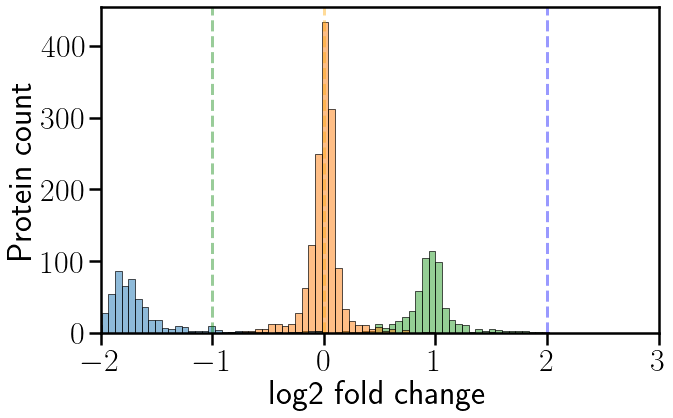
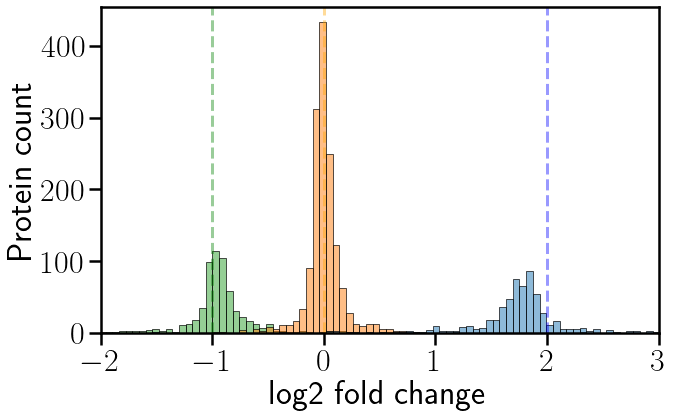
fixed todo docs

Changed region(s): [[0.1248, 0.0622, 0.9673, 0.8086]]

diff --git a/doc/benchmark/benchmark.tex b/doc/benchmark/benchmark.tex
@@ -98,7 +98,7 @@ Just as in LFQBench, we used two separate strategies to generate peptide abundan
         \includegraphics[width=1.1\linewidth]{../../result/report_plots/DIA_benchmark_truncated.png} 
     \end{tabular}
 
-        \caption{{\bf The spectrum-library matching and pseudo spectrum workflow pipelines.}}
+        \caption{{\bf The spectrum-library matching (SL) and pseudo spectrum workflow pipelines (PS).} For the various pipelines DIA-Umpire(SE), MSFragger and EasyPQP is run from Fragpipe (\protect\url{https://fragpipe.nesvilab.org/}).}
       \label{fig:flowchart}
 \end{figure}
 
@@ -185,22 +185,24 @@ To get an overview of the results of the methods we first made histograms of the
 \begin{figure}[hbt]
     \centering
     %\includegraphics[width=16cm]{../../result/2021-08-13_docs_plots/intensity_plot.png}
-    \begin{tabular}{lclc} 
-        A & \includegraphics[width=0.4\linewidth]{../../result/report_plots/osw_triqler_intensity.png} & 
-        E & \includegraphics[width=0.4\linewidth]{../../result/report_plots/diann_triqler_intensity.png} \\ 
-        B & \includegraphics[width=0.4\linewidth]{../../result/report_plots/osw_msqrobsum_intensity.png} & 
-        F & \includegraphics[width=0.4\linewidth]{../../result/report_plots/diann_msqrobsum_intensity.png} \\ 
-        C & \includegraphics[width=0.4\linewidth]{../../result/report_plots/osw_msstats_intensity.png} & 
-        G & \includegraphics[width=0.4\linewidth]{../../result/report_plots/diann_msstats_intensity.png} \\ 
-        D & \includegraphics[width=0.4\linewidth]{../../result/report_plots/osw_top3_intensity.png} &
-        H & \includegraphics[width=0.4\linewidth]{../../result/report_plots/diann_top3_intensity.png} 
+    \begin{tabular}{lclc}
+	    A & \includegraphics[width=0.4\linewidth]{../../result/report_plots/osw_triqler_intensity.png} & 
+	    B & \includegraphics[width=0.4\linewidth]{../../result/report_plots/osw_top3_intensity.png} \\ 
+	    C & \includegraphics[width=0.4\linewidth]{../../result/report_plots/osw_msstats_intensity.png} & 
+	    D & \includegraphics[width=0.4\linewidth]{../../result/report_plots/osw_msqrobsum_intensity.png} \\ 
+        %A & \includegraphics[width=0.4\linewidth]{../../result/report_plots/osw_triqler_intensity.png} & 
+        %E & \includegraphics[width=0.4\linewidth]{../../result/report_plots/diann_triqler_intensity.png} \\ 
+        %B & \includegraphics[width=0.4\linewidth]{../../result/report_plots/osw_msqrobsum_intensity.png} & 
+        %F & \includegraphics[width=0.4\linewidth]{../../result/report_plots/diann_msqrobsum_intensity.png} \\ 
+        %C & \includegraphics[width=0.4\linewidth]{../../result/report_plots/osw_msstats_intensity.png} & 
+        %G & \includegraphics[width=0.4\linewidth]{../../result/report_plots/diann_msstats_intensity.png} \\ 
+        %D & \includegraphics[width=0.4\linewidth]{../../result/report_plots/osw_top3_intensity.png} &
+        %H & \includegraphics[width=0.4\linewidth]{../../result/report_plots/diann_top3_intensity.png} 
     \end{tabular}
     \todo[inline]{Move A-D to supplement.}
-    \todo[inline]{Flip coli and yeast for Top3.}
-    \todo[inline]{Try to find and explanation of the large difference in number of reported proteins for e.g. the C and G subplot.}
+    \todo[inline]{Try to find and explanation of the large difference in nuRmber of reported proteins for e.g. the C and G subplot.}
     \todo[inline]{What is the reason for MSqRobSum's spike at zero?}
-    \caption{{\bf Comparison of reported fold change distributions.} We used peptide data from (A-D) Spectrum library matching and (E-H) pseudo spectra workflow as generated by 
-    (A,E) Triqler, (B,F) MSqRobSum, (C,G) MSstats, and (D,H) Top3. \label{fig:fc_histogram}}
+    \caption{{\bf Comparison of reported fold change distributions.} We used peptide data from SL and (A) Triqler, (B) Top3, (C) MSstats, and (D) MSqRobSum. The dashed lines indicates the true log2-fold change ratio between a specie and HeLa samples. We note that the empirical densities of the protein count are less biased for Triqler and Top3 than MSstats and MSqRobSum by observing that the apex of the distribution is closer to the dashed line. (D) MSqRobSum report a large log2 fold change bin at 0. A majority of these valued have been filtered away using a tresholding procedure because the reported false discovery rate for the difference between groups was 1.0 for most values in this bin. \label{fig:fc_histogram}}
 \end{figure}
 
 \subsubsection*{Comparison of ability to discriminate differentially from equally abundant proteins}

diff --git a/doc/benchmark/supplement.tex b/doc/benchmark/supplement.tex
@@ -193,7 +193,23 @@ Yeast   & 6 050      & 5 848      & 5 847                       \\ \hline
 \end{figure}
 
 
-
+\subsubsection*{Comparison of reported protein count}
+\begin{figure}[hbt]
+    \centering
+    %\includegraphics[width=16cm]{../../result/2021-08-13_docs_plots/intensity_plot.png}
+    \begin{tabular}{lclc} 
+        A & \includegraphics[width=0.4\linewidth]{../../result/report_plots/osw_triqler_intensity.png} & 
+        E & \includegraphics[width=0.4\linewidth]{../../result/report_plots/diann_triqler_intensity.png} \\ 
+        B & \includegraphics[width=0.4\linewidth]{../../result/report_plots/osw_msqrobsum_intensity.png} & 
+        F & \includegraphics[width=0.4\linewidth]{../../result/report_plots/diann_msqrobsum_intensity.png} \\ 
+        C & \includegraphics[width=0.4\linewidth]{../../result/report_plots/osw_msstats_intensity.png} & 
+        G & \includegraphics[width=0.4\linewidth]{../../result/report_plots/diann_msstats_intensity.png} \\ 
+        D & \includegraphics[width=0.4\linewidth]{../../result/report_plots/osw_top3_intensity.png} &
+        H & \includegraphics[width=0.4\linewidth]{../../result/report_plots/diann_top3_intensity.png} 
+    \end{tabular}
+    \caption{{\bf Comparison of reported fold change distributions.} We used peptide data from (A-D) Spectrum library matching and (E-H) pseudo spectra workflow as generated by 
+    (A,E) Triqler, (B,F) MSqRobSum, (C,G) MSstats, and (D,H) Top3. \label{fig:fc_histogram_supplement}}
+\end{figure}
 %\begin{figure}[hbt]
 %    \centering
 %    \centering
